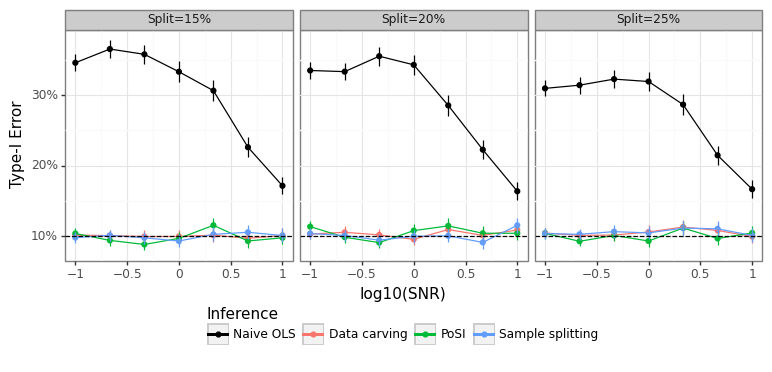
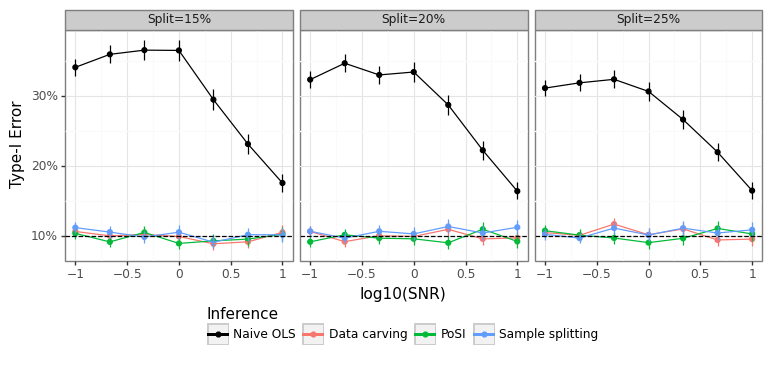
lasso inference class being built out

diff --git a/sntn/_posi.py b/sntn/_posi.py
@@ -6,13 +6,102 @@ Workhorse classes for doing marginal screening (posi_marginal_screen) and Lasso 
 import numpy as np
 import pandas as pd
 from math import isclose
+from warnings import warn
+from glmnet.linear import ElasticNet
 from sklearn.model_selection import KFold
-from sklearn.linear_model import LinearRegression
 # Internal
 from sntn.dists import tnorm, nts
 from sntn._split import _split_yx
 from sntn.utilities.linear import ols
 from sntn.utilities.utils import get_valid_kwargs_cls, cvec, rvec
+
+
+class _posi_lasso(_split_yx):
+    def __init__(self, lam:float, y:np.ndarray, x:np.ndarray, **kwargs):
+        super().__init__(y, x, **get_valid_kwargs_cls(_split_yx, **kwargs))
+        """
+        Carries out selective inference for the Lasso problem
+
+        Parameters
+        ==========
+        lam:                Regularization penality
+        y:                  (n,) array of responses
+        x:                  (n,p) array of covariates
+        **kwargs:           Passed into _split_yx(**kwargs), Lasso(**kwargs) and ols(**kwargs)
+        """
+        # Input checks
+        assert lam > 0, 'lam needs to be greater than zero'
+        self.lam = lam
+        # Run the Lasso
+        xtil, self.xmu_screen, self.xstd_screen = self._normalize_x(self.x_screen, return_mu_sd=True)
+        lam_max = np.max( np.abs(xtil.T.dot(self.y_screen)) / len(xtil) )
+        kwargs_lasso = {'alpha':1, 'n_splits':0, 'standardize':False, 'lambda_path':np.array([lam_max,lam])}
+        kwargs_lasso = {**kwargs_lasso, **get_valid_kwargs_cls(ElasticNet, **kwargs)}
+        self.mdl_lasso = ElasticNet(**kwargs_lasso)
+        self.mdl_lasso.fit(X=xtil, y=self.y_screen)
+        bhat_lasso = self.mdl_lasso.coef_path_[:,1]
+        self.cidx_screen = np.where(bhat_lasso != 0)[0]
+        self.n_cidx_screened = len(self.cidx_screen)
+        if self.n_cidx_screened >= 1:
+            # Fit an OLS model on the screened and split portion of the data
+            ols_kwargs = get_valid_kwargs_cls(ols, **kwargs)
+            self.ols_screen = ols(self.y_screen, self.x_screen[:,self.cidx_screen], **ols_kwargs)
+            if self.frac_split > 0:
+                n_split = self.x_split.shape[0]
+                if n_split > self.n_cidx_screened + 1:
+                    self.ols_split = ols(self.y_split, self.x_split[:,self.cidx_screen], **ols_kwargs)
+                else:
+                    warn(f'A total of {self.n_cidx_screened} columns were screened for testing, but we only have {n_split} observations (classical inference is not possible)')
+        else:
+            warn(f'No variables were screened')
+        
+
+    @staticmethod
+    def _normalize_x(x:np.ndarray, return_mu_sd:bool=False):
+        """Internal method to normalize x and store scaling terms, if necessary"""
+        mu, sd = x.mean(axis=0), x.std(axis=0)
+        xtil = (x-mu)/sd
+        if return_mu_sd:
+            return xtil, mu, sd
+        else:
+            return xtil
+
+
+    def estimate_sigma2(self, num_folds:int=5) -> None:
+        """
+        Estimates the variance of residual of the Lasso model. For the screened portion of the data, this amounts to doing k-fold CV
+
+        Parameters
+        ==========
+        num_folds:                  How many folds of CV to use (note that seed will be inherited from construction)
+
+        Attributes
+        ==========
+        sig2hat:                    Weighted average of the (unbiased) split estimate + CV-based screening
+        se_bhat_screen:             Standard error of the beta coefficients using sig2hat for the screened estimate
+        se_bhat_split:              Standard error of the beta coefficients using sig2hat from the split estimate (if frac_split>0)
+        """
+        # Estimate the variance using K-Fold CV
+        folder = KFold(n_splits=num_folds, shuffle=True, random_state=self.seed)
+        y_hat = np.zeros(self.y_screen.shape)
+        for ridx, tidx in folder.split(self.x_screen):
+            x_train, x_test = self.x_screen[ridx], self.x_screen[tidx]
+            y_train, y_test = self.y_screen[ridx], self.y_screen[tidx]
+            tmp_model = self.__class__(lam=self.lam, y=y_train, x=x_train, frac_split=0.0)
+            y_hat[tidx] = tmp_model.ols_screen.predict(x_test[:,tmp_model.cidx_screen])
+        sig2hat_screen = np.mean((self.y_screen - y_hat)**2)
+        
+        # If carving exists, use it
+        sig2hat_split = 0
+        if self.frac_split > 0:
+            sig2hat_split = self.ols_split.sig2hat
+        
+        # Use data-weighted final value
+        self.sig2hat = (1-self.frac_split)*sig2hat_screen + self.frac_split*sig2hat_split
+
+
+
+
 
 
 class _posi_marginal_screen(_split_yx):

diff --git a/examples/4_lasso.py b/examples/4_lasso.py
@@ -1,0 +1,102 @@
+"""
+Show that NTS works with a data-carved lasso
+
+python3 -m examples.4_lasso
+"""
+
+# External
+import os
+import numpy as np
+import pandas as pd
+from time import time
+from scipy.stats import norm, binom
+# Internal
+from parameters import dir_figures
+from sntn.posi import lasso
+from sntn.utilities.linear import dgp_sparse_yX
+from sntn.utilities.utils import get_CI, pn_labeller
+
+
+# Set up simulation parameters
+# Dimension of data
+n, p = 100, 150
+s, k = 5, 10
+b0 = +1  # Intercept
+alpha = 0.1
+lam_max_frac = 0.725
+# Number of simulations per snr
+nsim = 100
+n_snr = 7
+frac_split_seq = [0.15, 0.20, 0.25]
+n_perm = n_snr*nsim
+snr_seq_log10 = np.linspace(-1, +1, n_snr)
+snr_seq = np.exp(snr_seq_log10 * np.log(10))
+
+# Suppress selection warnings
+import warnings
+warnings.simplefilter("ignore")
+
+
+
+##############################
+# --- (1) RUN SIMULATION --- #
+
+idx = 0
+stime = time()
+holder_sim, holder_nsel = [], []
+for j, snr in enumerate(snr_seq):
+    for i in range(nsim):
+        # Draw data
+        idx += 1
+        y, x, beta0, beta1 = dgp_sparse_yX(n, p, s, intercept=b0, snr=snr, seed=idx+3500, return_params=True)
+        # Approximate lambda-max
+        # Loop over the difference frac to split
+        lam_max_approx = np.max(np.abs(np.dot( ((x - x.mean(0))/x.std(0)).T, y)) / len(x) )
+        lam_approx = lam_max_approx * lam_max_frac
+        for frac_split in frac_split_seq:
+            # (i) Split x into screening and split
+            split_lasso = lasso(lam_approx, y, x, frac_split=frac_split)
+            dat_nsel = pd.DataFrame({'sim':i,'snr':snr, 'p':split_lasso.n_cidx_screened,'frac':frac_split},index=[idx])
+            holder_nsel.append(dat_nsel)
+
+            
+        if idx % 25 == 0:
+            dtime = time() - stime
+            rate = idx / dtime
+            seta = (n_perm - idx)/rate
+            print(f'Simulation {idx} of {n_perm} (ETA={seta:0.0f} seconds)')
+res_nsel = pd.concat(holder_nsel).reset_index(drop=True)
+res_nsel = res_nsel.assign(n_split=lambda x: (x['frac']*n).astype(int))
+res_nsel = res_nsel.assign(no_sel=lambda x: x['p']==0)
+res_nsel = res_nsel.assign(no_inf=lambda x: x['n_split'] < x['p'] + 1)
+print(res_nsel.groupby(['snr','frac'])[['no_sel','no_inf']].mean().round(2))
+breakpoint()
+
+
+
+        #     # (ii) Calculate the ground truth parameters on "selected" model
+        #     idx_noise = ~(np.array(split_marginal.cidx_screen) < s)
+        #     n_screened = np.sum(~idx_noise)
+        #     sigma2_gt = 1 + (s-n_screened)*beta1[0]**2
+        #     beta_gt = np.where(idx_noise, 0, beta1[0])
+            
+        #     # (iii) Do naive inference (type-I errors shuold be inflated)
+        #     split_marginal.ols_screen.run_inference(alpha, 0, sigma2_gt)
+        #     ols_naive_i = split_marginal.ols_screen.res_inf.assign(cidx=split_marginal.cidx_screen, mdl='naive')
+        #     ols_naive_i = ols_naive_i[['bhat','pval','cidx','mdl']]
+
+        #     # (iv) Run PoSI inference for screened data
+        #     any_split = frac_split > 0
+        #     split_marginal.run_inference(alpha, 0, sigma2_gt, run_carve=any_split, run_split=any_split, run_ci=False)
+        #     tnorm_screen_i = split_marginal.res_screen.assign(cidx=split_marginal.cidx_screen, mdl='screen')
+            
+        #     nts_carve_i, gauss_split_i = pd.DataFrame({}), pd.DataFrame({})
+        #     if any_split:
+        #         gauss_split_i = split_marginal.res_split.drop(columns=['lb','ub']).assign(mdl='split')
+        #         nts_carve_i = split_marginal.res_carve.assign(cidx=split_marginal.cidx_screen, mdl='carve')
+        #     # Combine and save
+        #     res_screen_i = pd.concat(objs=[ols_naive_i, tnorm_screen_i, gauss_split_i, nts_carve_i])
+        #     res_screen_i = res_screen_i.assign(snr=snr, sim=i, frac_split=frac_split)
+        #     holder_sim.append(res_screen_i)
+        
+

diff --git a/sntn/posi.py b/sntn/posi.py
@@ -5,7 +5,14 @@ Post selection inference classes (wrapper for workhorse classes)
 # External
 import numpy as np
 # Internal
-from sntn._posi import _posi_marginal_screen
+from sntn._posi import _posi_marginal_screen, _posi_lasso
+
+
+"""See _posi_lasso and _data_carve from sntn._posi"""
+class lasso(_posi_lasso):
+    def __init__(self, lam:float, y:np.ndarray, x:np.ndarray, **kwargs):
+        super().__init__(lam, y, x, **kwargs)
+
 
 
 """See _posi_marginal_screen and _data_carve from sntn._posi"""

diff --git a/examples/3_marginal_screening.py b/examples/3_marginal_screening.py
@@ -91,6 +91,8 @@ res_sim = res_sim.merge(df_snr,'left')
 res_sim = res_sim.assign(reject=lambda x: x['pval'] < alpha)
 res_sim = res_sim.assign(snr10 = lambda x: np.log10(x['snr']))
 res_sim.to_csv(os.path.join('examples','marginal_screening_sim.csv'),index=False)
+if 'res_sim' not in dir():
+    res_sim = pd.read_csv(os.path.join('examples','marginal_screening_sim.csv'))
 
 
 ############################
